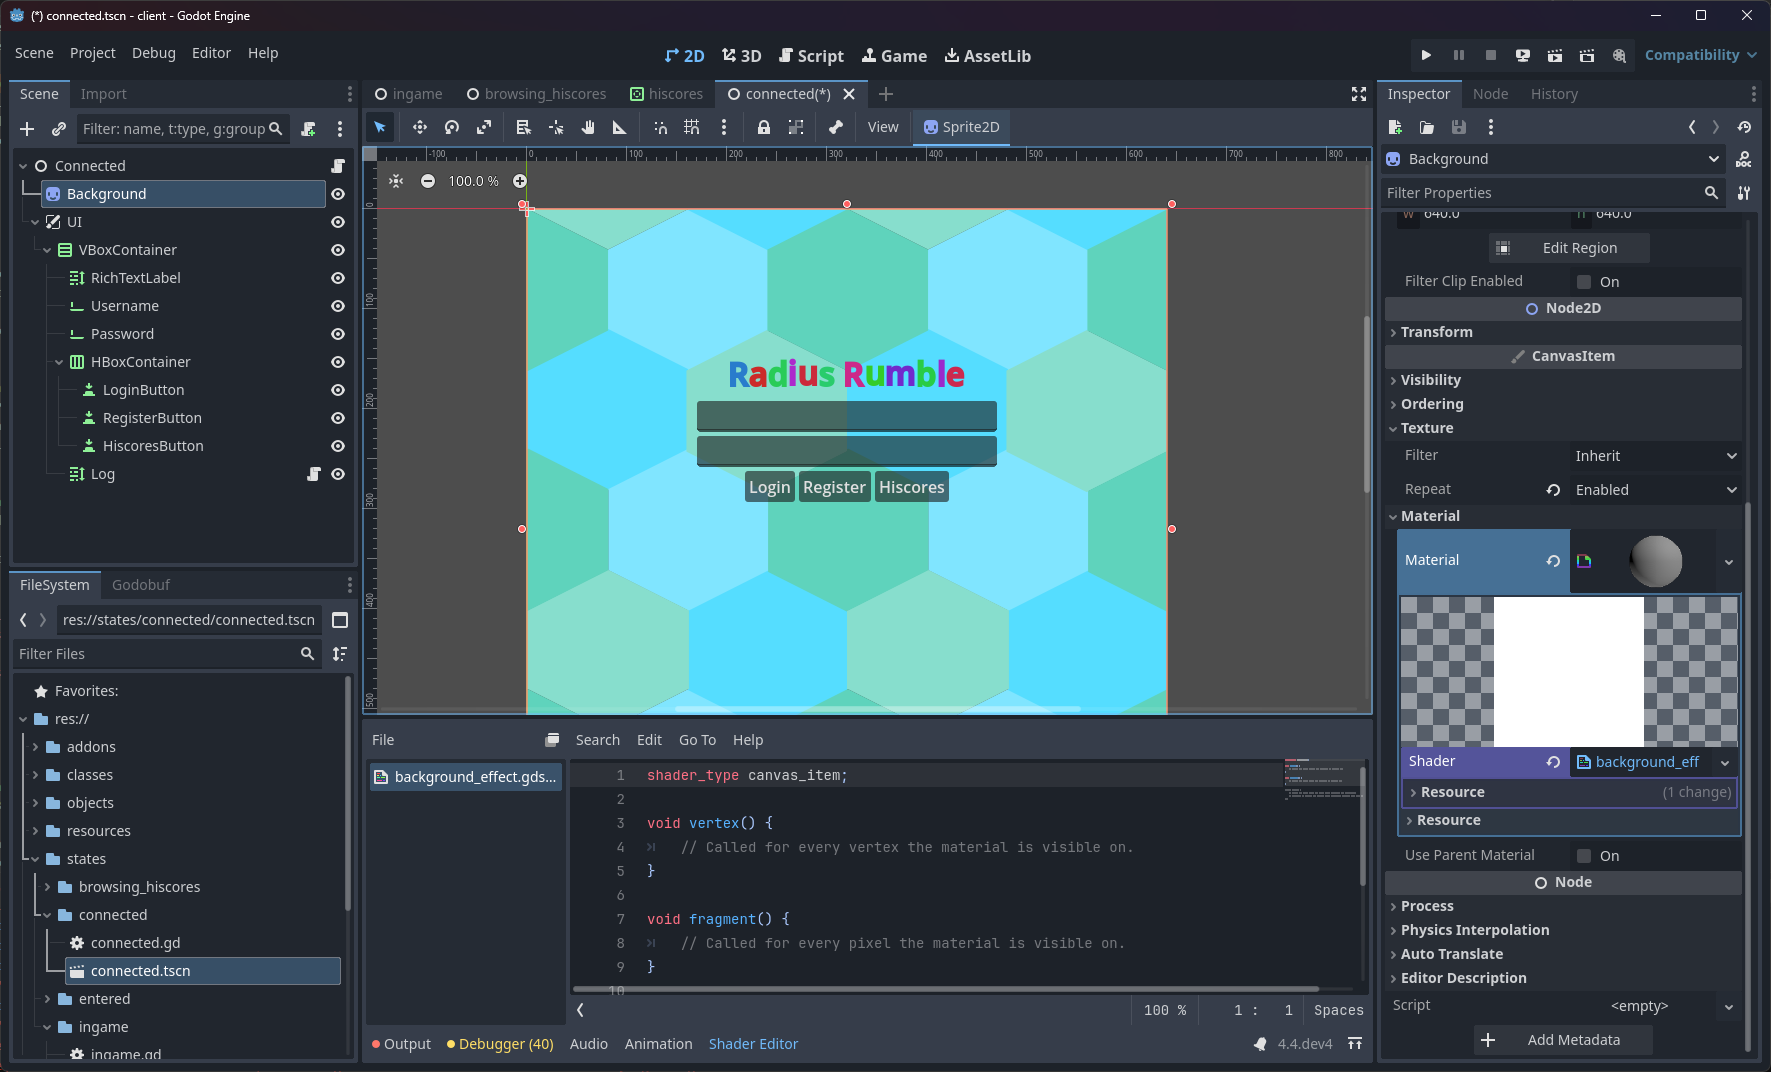
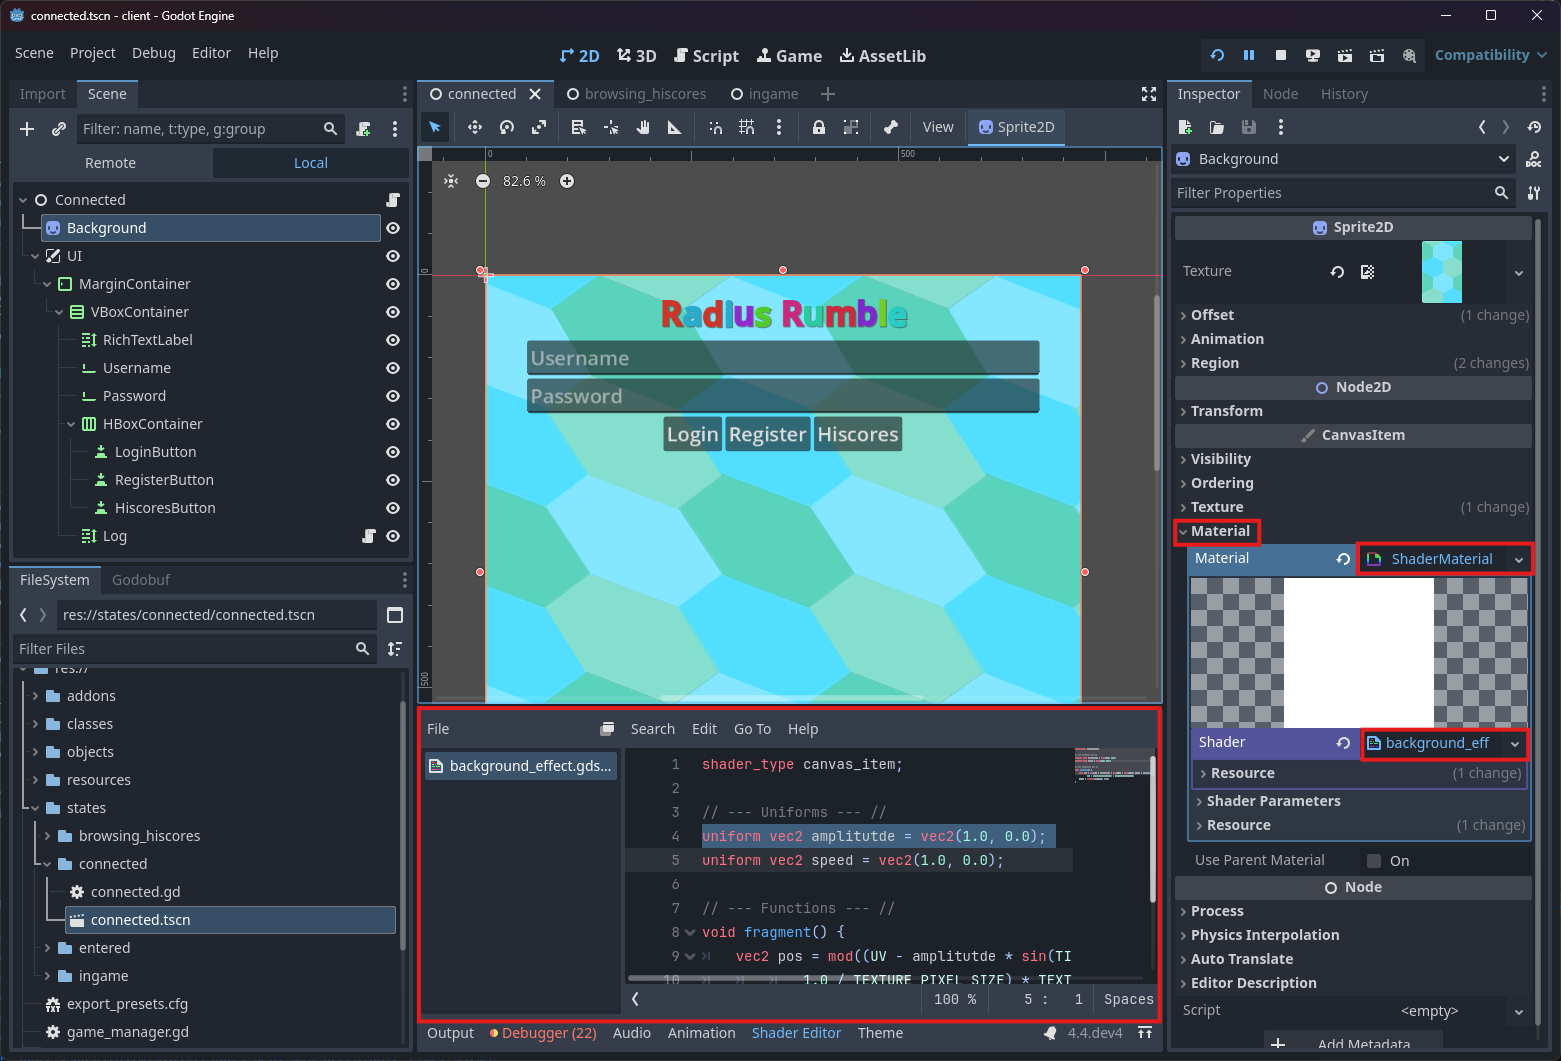
Revise login screen layout and add margin container for improved UI centering; update title formatting and enhance hiscores screen instructions.

diff --git a/_posts/2024-11-20-godot-golang-mmo-part-11.md b/_posts/2024-11-20-godot-golang-mmo-part-11.md
@@ -171,19 +171,21 @@ Now that we've zhuzhed up the in-game UI, let's do the same for the login screen
 
 ### Centering the form and adding a title
 
-Let's get everything centered and away from the top edge of the screen. We can do that by simply opening up the `res://states/connected/connects.tscn` scene and setting the top VBoxContainer's anchor preset to **Center** and then setting the **Custom Minimum Size**'s **x** value to something like 300. Because we've already set the other elements to expand, this is all we should need to do to get it looking pretty centered.
+Let's get everything centered and away from the top edge of the screen. We can do that by simply opening up the `res://states/connected/connected.tscn` scene and inserting a margin container, much like we did for the in-game scene, as a parent of the VBoxContainer's. Then set the margin container's anchor preset to **Full Rect** and override the theme's margin constants to whatever you like.
 
 We should center the buttons as well, though, so set the HBoxContainer's **Alignment** property to **Center** too.
 
-Finally, we should add a cool background and title to the login screen! Add a **RichTextLabel** node to the top of the VBoxContainer and set its **Text** property to whatever you want to call your game. I'm going with "Radius Rumble". Make sure to check the **Fit Content** property, so the text doesn't get cut off.
+![Centered Login Screen](/assets/css/images/posts/2024/11/20/centered_login_screen.png)
+
+We should add a cool title to the login screen! Add a **RichTextLabel** node to the top of the VBoxContainer and set its **Text** property to whatever you want to call your game. I'm going with "Radius Rumble". Make sure to check the **Fit Content** property, so the text doesn't get cut off.
 
 There's [a lot of cool stuff](https://docs.godotengine.org/en/stable/tutorials/ui/bbcode_in_richtextlabel.html) you can do if you enable the **BBCode Enabled** property on the RichTextLabel, for example:
 
 ```bbcode
-[center][rainbow][shake]Radius Rumble[/shake][/rainbow][/center]
+[center][rainbow][shake][b]Radius Rumble[/b][/shake][/rainbow][/center]
 ```
 
-You can also make the text bigger by using the **Theme Overrides > Font Sizes > Normal Font Size** property.
+You can also make the text bigger by using the **Theme Overrides > Font Sizes > Bold Font Size** property.
 
 ![Login Screen](/assets/css/images/posts/2024/11/20/login_screen.png)
 
@@ -198,15 +200,16 @@ To do this, simply add a **Sprite2D** node as a child of the root `Connected` no
 - **Node** - called `Connected`
     - **Sprite2D** - called `Background`
     - **CanvasLayer** - called `UI`
-      - **VBoxConatainer**
-        - **RichTextLabel**
-        - **LineEdit** - called `Username`
-        - **LineEdit** - called `Password`
-        - **HBoxContainer**
-          - **Button** - called `LoginButton`
-          - **Button** - called `RegisterButton`
-          - **Button** - called `HiscoresButton`
-        - **Log (log.gd)** - called `Log`
+      - **MarginContainer**
+        - **VBoxConatainer**
+          - **RichTextLabel**
+          - **LineEdit** - called `Username`
+          - **LineEdit** - called `Password`
+          - **HBoxContainer**
+            - **Button** - called `LoginButton`
+            - **Button** - called `RegisterButton`
+            - **Button** - called `HiscoresButton`
+          - **Log (log.gd)** - called `Log`
 
 Now make the following edits to the `Background` sprite:
 1. Set the **Texture** property to `resources/floor.svg` (use the **Quick Load...** option in the drop-down)
@@ -257,7 +260,7 @@ There's a lot more we could do here, like letting users press Enter to log in, o
 
 ### Revamping the hiscores screen
 
-Finally, let's pretty much do the same thing to the hiscores screen. We'll be adding the same title, the same centering technique, and the same background image and shader effect. I will leave this as an exercise for the reader (hint: you can copy and paste the `Background` sprite and RichTextLabel from the `Connected` scene and all the properties will be the same).
+Finally, let's pretty much do the same thing to the hiscores screen. We'll be adding the same title and the same background image and shader effect. You can also add a margin container like we did with the in-game UI. I will leave this as an exercise for the reader (hint: you can copy and paste the `Background` sprite and RichTextLabel from the `Connected` scene and all the properties will be the same).
 
 <video controls>
   <source src="/assets/css/images/posts/2024/11/20/copypaste.webm" type="video/webm">
@@ -295,6 +298,11 @@ So now our game looks like this:
 ![Connected Screen](/assets/css/images/posts/2024/11/20/connected_screen.png)
 
 This is cool and all, but there's just one more feature I want to add before we call it a day. It would be really great if players could choose their color when they register, and having a separate registration screen would make more sense. That way, we can also get users to type their password twice to confirm it.
+
+## Making the window resizable
+
+It is possible to resize the window currently, but it has a couple of issues. It doesn't scale the UI or the game world, so it gives an unfair advantage to players who have a larger screen while also making it harder to read the text on-screen. We can fix that by going to **Project Settings > Display > Window > Stretch** and setting the stretch **Mode** to **viewport** and the **Aspect** to **Keep**. 
+
 
 ## Adding a separate registration screen
 *Coming soon...*